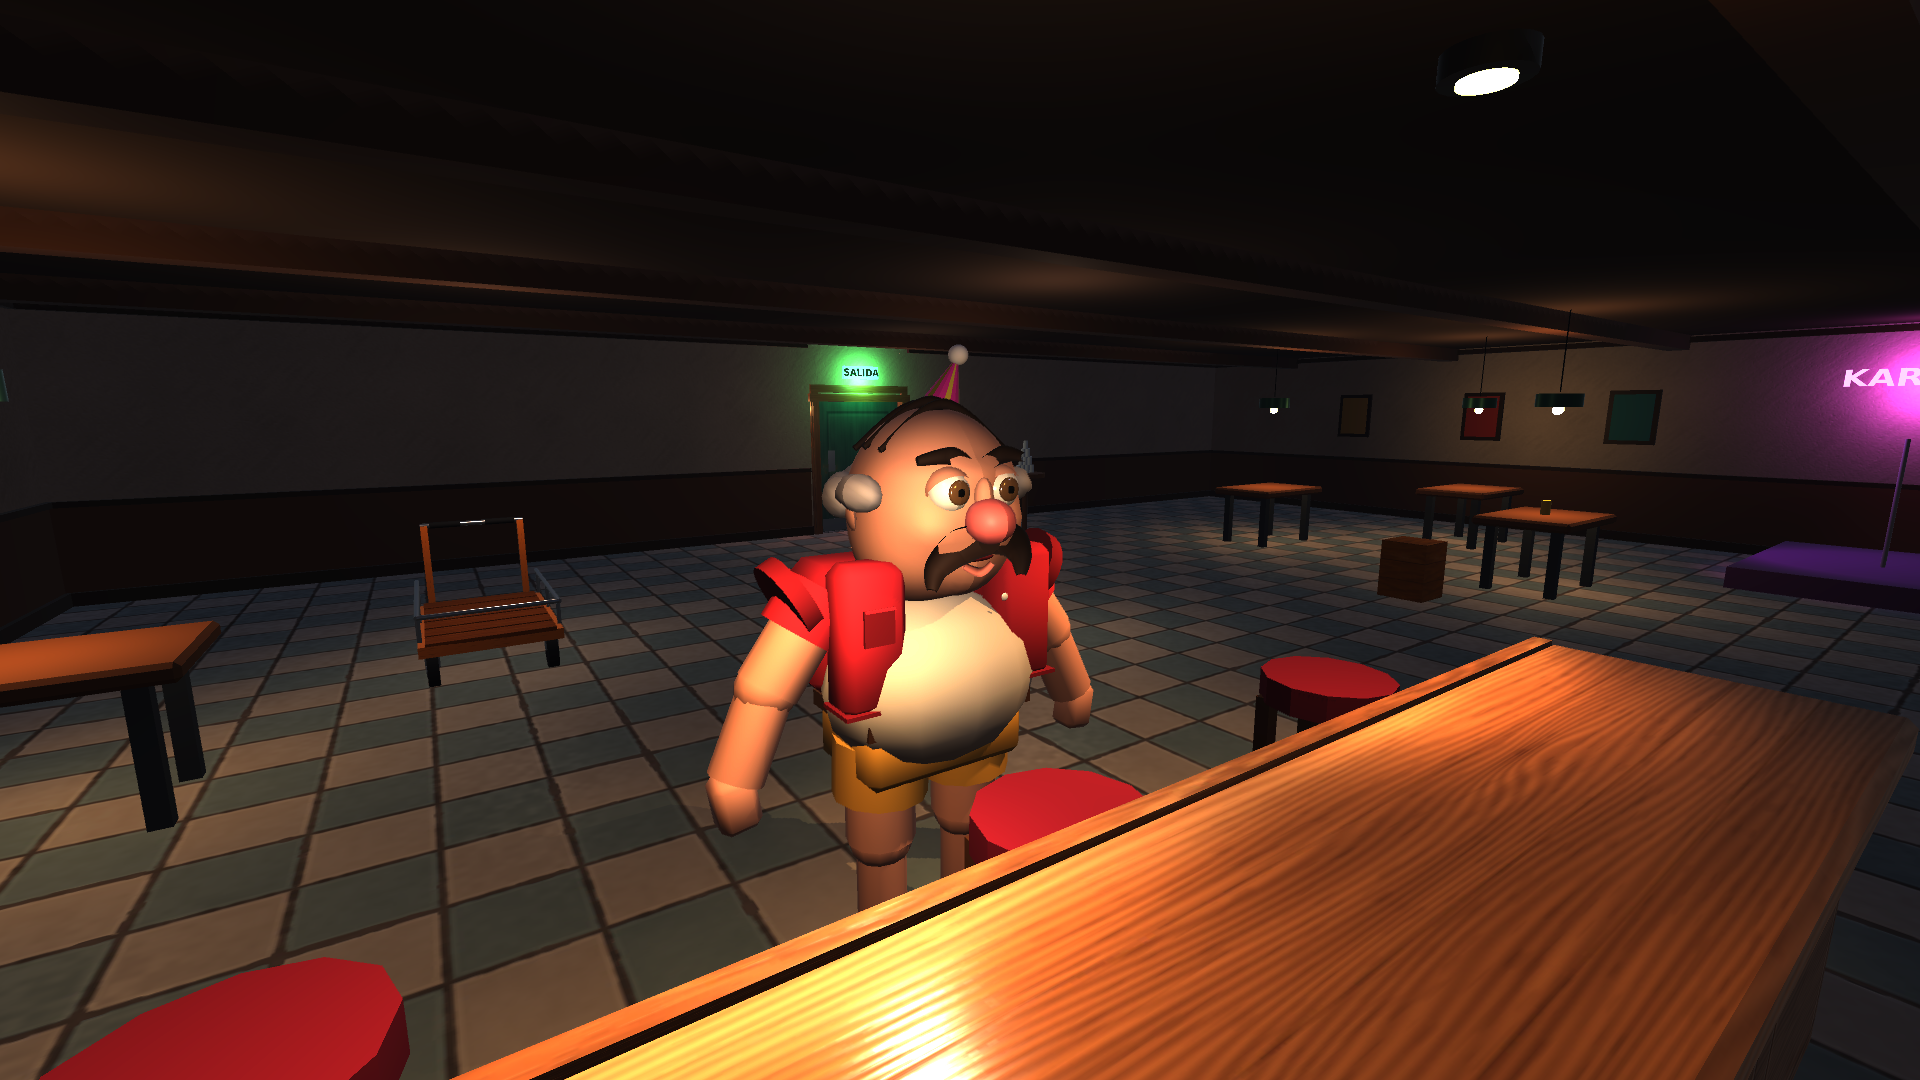
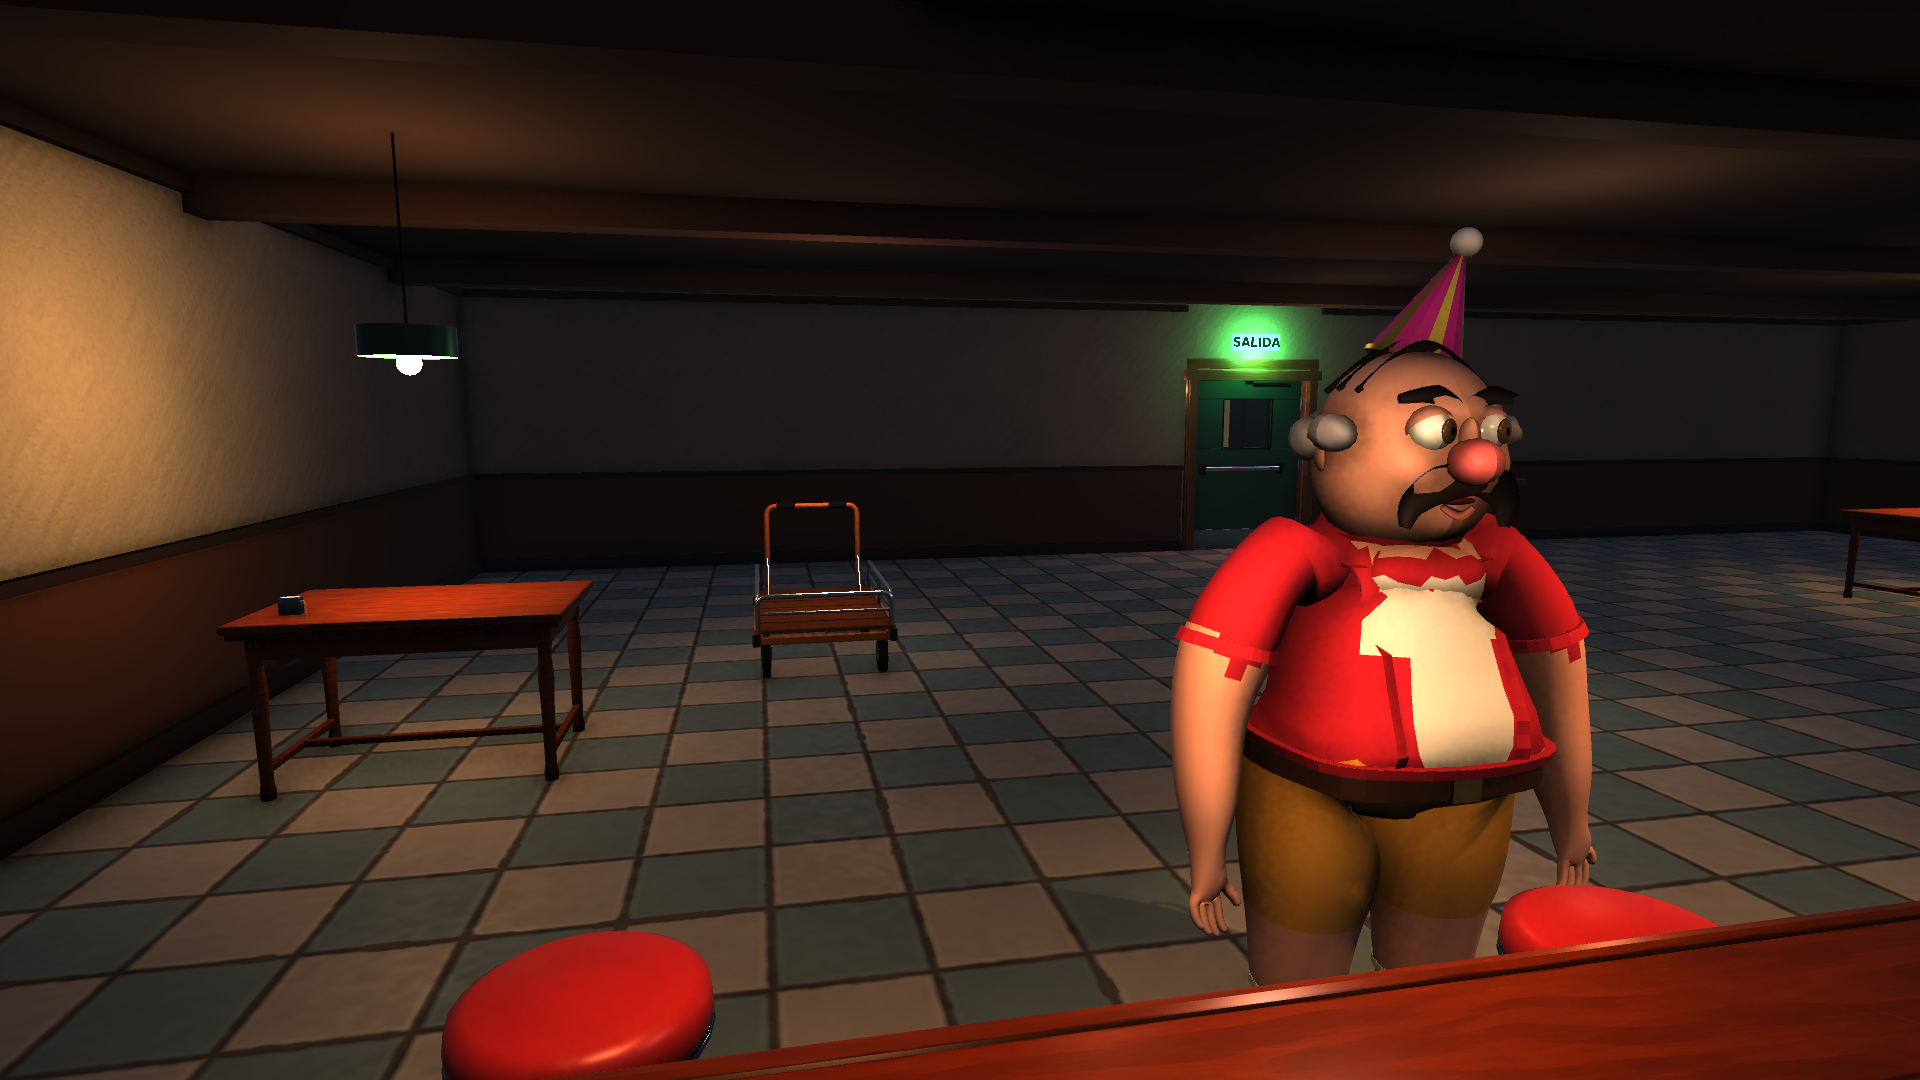
S21 menu backdrop (UE-16): own framing from the S21 bar and no stretching on wide or narrow screens
- New background captured with CamTour view menu_s21 on the integrated cut: the uncle facing the camera from
  behind the counter, on the right third, under the green SALIDA sign, with the cart between him and the buttons.
- The background keeps the image aspect (AspectRatioFitter EnvelopeParent): 21:9 and 4:3 crop instead of
  squashing the uncle; the subject stays inside the 12.5 % crop margins.
- Shade is a horizontal gradient (alpha 0.7 behind title and buttons to 0.15 over the uncle) instead of a flat 0.4.
- CamTour accepts -ueCamViews "name:pos:look[:fov];..." to search framings without rebuilding.
- PlayMode test: background envelope with the sprite aspect, and shade darker on the left.

diff --git a/UnityProject/Assets/Game/Scripts/Debug/CamTour.cs b/UnityProject/Assets/Game/Scripts/Debug/CamTour.cs
@@ -12,24 +12,41 @@ namespace UncleExtraction
     public class CamTour : MonoBehaviour
     {
         string dir;
-        static readonly (string name, Vector3 pos, Vector3 look)[] Views =
+        (string name, Vector3 pos, Vector3 look, float fov)[] custom;
+        static readonly (string name, Vector3 pos, Vector3 look, float fov)[] Views =
         {
-            ("salon",            new Vector3(0.5f, 1.7f, 1.2f),  new Vector3(4.5f, 1.0f, 8.5f)),
-            ("barra",            new Vector3(2.4f, 1.5f, 5.6f),  new Vector3(5.2f, 0.9f, 8.9f)),
-            ("tio",              new Vector3(3.7f, 1.55f, 5.6f), new Vector3(4.5f, 1.0f, 7.4f)),
-            ("karaoke",          new Vector3(-3.5f, 1.7f, 4.0f), new Vector3(-7.4f, 0.6f, 8.8f)),
-            ("carrito",          new Vector3(4.0f, 1.4f, 0.6f),  new Vector3(5.6f, 0.5f, 2.4f)),
-            ("puerta_dentro",    new Vector3(0.6f, 1.6f, 3.4f),  new Vector3(0f, 1.1f, -2f)),
-            ("puerta_fuera",     new Vector3(1.8f, 1.6f, -5.2f), new Vector3(0f, 1.2f, -2f)),
-            ("vereda",           new Vector3(5.5f, 2.6f, -4.0f), new Vector3(0f, 0.8f, -10f)),
-            ("camioneta",        new Vector3(1.6f, 1.6f, -6.4f), new Vector3(0f, 1.0f, -10.5f)),
-            ("camioneta_dentro", new Vector3(0.3f, 1.5f, -8.9f), new Vector3(0f, 0.6f, -12.2f)),
-            ("esquina",          new Vector3(-6.6f, 1.6f, 0.4f), new Vector3(-9f, 0.4f, -2f)),
-            ("techo",            new Vector3(0f, 1.6f, 4.0f),    new Vector3(1f, 4.5f, 9.5f)),
-            ("general",          new Vector3(9f, 7f, -10f),      new Vector3(1f, 0f, 1f)),
-            ("menu_fondo",       new Vector3(0.6f, 1.45f, 4.4f), new Vector3(3.2f, 1.35f, 8.4f)), // fondo del menu (Art/UI/Backgrounds/bar_night.png)
-            ("menu_tio",         new Vector3(5.9f, 1.95f, 9.45f), new Vector3(4.2f, 1.45f, 7.0f)), // sesion 20: el tio de frente desde atras de la barra, el salon detras (fondo del menu)
+            ("salon",            new Vector3(0.5f, 1.7f, 1.2f),  new Vector3(4.5f, 1.0f, 8.5f), 0f),
+            ("barra",            new Vector3(2.4f, 1.5f, 5.6f),  new Vector3(5.2f, 0.9f, 8.9f), 0f),
+            ("tio",              new Vector3(3.7f, 1.55f, 5.6f), new Vector3(4.5f, 1.0f, 7.4f), 0f),
+            ("karaoke",          new Vector3(-3.5f, 1.7f, 4.0f), new Vector3(-7.4f, 0.6f, 8.8f), 0f),
+            ("carrito",          new Vector3(4.0f, 1.4f, 0.6f),  new Vector3(5.6f, 0.5f, 2.4f), 0f),
+            ("puerta_dentro",    new Vector3(0.6f, 1.6f, 3.4f),  new Vector3(0f, 1.1f, -2f), 0f),
+            ("puerta_fuera",     new Vector3(1.8f, 1.6f, -5.2f), new Vector3(0f, 1.2f, -2f), 0f),
+            ("vereda",           new Vector3(5.5f, 2.6f, -4.0f), new Vector3(0f, 0.8f, -10f), 0f),
+            ("camioneta",        new Vector3(1.6f, 1.6f, -6.4f), new Vector3(0f, 1.0f, -10.5f), 0f),
+            ("camioneta_dentro", new Vector3(0.3f, 1.5f, -8.9f), new Vector3(0f, 0.6f, -12.2f), 0f),
+            ("esquina",          new Vector3(-6.6f, 1.6f, 0.4f), new Vector3(-9f, 0.4f, -2f), 0f),
+            ("techo",            new Vector3(0f, 1.6f, 4.0f),    new Vector3(1f, 4.5f, 9.5f), 0f),
+            ("general",          new Vector3(9f, 7f, -10f),      new Vector3(1f, 0f, 1f), 0f),
+            ("menu_fondo",       new Vector3(0.6f, 1.45f, 4.4f), new Vector3(3.2f, 1.35f, 8.4f), 0f), // fondo del menu (Art/UI/Backgrounds/bar_night.png)
+            ("menu_tio",         new Vector3(5.9f, 1.95f, 9.45f), new Vector3(4.2f, 1.45f, 7.0f), 0f), // sesion 20: el tio de frente desde atras de la barra, el salon detras (fondo del menu)
+            ("menu_s21",         new Vector3(6.0f, 1.75f, 9.3f), new Vector3(5.4f, 1.35f, 6.4f), 58f), // sesion 21: tio a la derecha bajo SALIDA, carrito entre el y los botones (Art/UI/Backgrounds/bar_night.png)
         };
+
+        /// -ueCamViews "nombre:px,py,pz:lx,ly,lz[:fov];..." reemplaza el recorrido por esas vistas (para buscar encuadres
+        /// sin recompilar, p. ej. el fondo del menu).
+        static (string, Vector3, Vector3, float)[] ParseViews(string s)
+        {
+            var list = new System.Collections.Generic.List<(string, Vector3, Vector3, float)>();
+            var inv = System.Globalization.CultureInfo.InvariantCulture;
+            Vector3 V(string t) { var p = t.Split(','); return new Vector3(float.Parse(p[0], inv), float.Parse(p[1], inv), float.Parse(p[2], inv)); }
+            foreach (var item in s.Split(';'))
+            {
+                var f = item.Trim().Split(':'); if (f.Length < 3) continue;
+                list.Add((f[0], V(f[1]), V(f[2]), f.Length > 3 ? float.Parse(f[3], inv) : 0f));
+            }
+            return list.ToArray();
+        }
 
         [RuntimeInitializeOnLoadMethod(RuntimeInitializeLoadType.AfterSceneLoad)]
         static void Init()
@@ -39,7 +56,8 @@ namespace UncleExtraction
                 if (a[i] == "-ueCamTour")
                 {
                     var go = new GameObject("CamTour"); DontDestroyOnLoad(go);
-                    go.AddComponent<CamTour>().dir = Path.GetFullPath(a[i + 1]);
+                    var tour = go.AddComponent<CamTour>(); tour.dir = Path.GetFullPath(a[i + 1]);
+                    for (int j = 0; j < a.Length - 1; j++) if (a[j] == "-ueCamViews") tour.custom = ParseViews(a[j + 1]);
                     if (FindAnyObjectByType<FrontendMenu>()) UnityEngine.SceneManagement.SceneManager.LoadScene(FrontendMenu.GameScene);
                     return;
                 }
@@ -59,8 +77,9 @@ namespace UncleExtraction
             foreach (var pm in FindObjectsByType<PlayerMotor>(FindObjectsSortMode.None)) foreach (var r in pm.GetComponentsInChildren<Renderer>()) r.enabled = false;
             foreach (var c in FindObjectsByType<Canvas>(FindObjectsSortMode.None)) c.enabled = false;
             var hud = FindAnyObjectByType<LabDebugHud>(); if (hud) hud.enabled = false;
-            foreach (var v in Views)
+            foreach (var v in custom ?? Views)
             {
+                cam.fieldOfView = v.fov > 0f ? v.fov : 70f;
                 camGo.transform.position = v.pos; camGo.transform.rotation = Quaternion.LookRotation(v.look - v.pos);
                 for (int f = 0; f < 6; f++) yield return null;
                 yield return new WaitForEndOfFrame();

diff --git a/UnityProject/Assets/Game/Scripts/UI/FrontendMenu.cs b/UnityProject/Assets/Game/Scripts/UI/FrontendMenu.cs
@@ -51,7 +51,12 @@ namespace UncleExtraction
             var skin = UiSkin.Load();
             var bg = Ui.Image(canvas.transform, "Background", skin ? skin.background : null, skin && skin.background ? Color.white : Ui.Ink, false);
             bg.preserveAspect = false;
-            var shade = Ui.Image(canvas.transform, "Shade", null, new Color(0.06f, 0.09f, 0.11f, 0.4f), false); // el fondo nocturno ya es oscuro
+            if (bg.sprite)
+            {   // recortar en lugar de estirar: en 21:9, 16:10 o 4:3 el fondo cubre la pantalla sin deformar al tio (sesion 21)
+                var fit = bg.gameObject.AddComponent<AspectRatioFitter>();
+                fit.aspectMode = AspectRatioFitter.AspectMode.EnvelopeParent; fit.aspectRatio = bg.sprite.rect.width / bg.sprite.rect.height;
+            }
+            var shade = Ui.Image(canvas.transform, "Shade", ShadeSprite(), new Color(0.06f, 0.09f, 0.11f, 1f), false); // velo: oscuro detras de los botones, liviano sobre el tio
             var title = Ui.Label(canvas.transform, "Title", "UNCLE EXTRACTION", 112, Ui.Text, TextAnchor.UpperLeft, true);
             title.fontSize = title.resizeTextMaxSize = 112; title.resizeTextMinSize = 72; // logo: no crece con el tamaño de texto
             title.rectTransform.offsetMin = new Vector2(Ui.Margin, 0); title.rectTransform.offsetMax = new Vector2(-Ui.Margin, -Ui.Margin);
@@ -70,6 +75,21 @@ namespace UncleExtraction
             ok.GetComponent<RectTransform>().pivot = new Vector2(0.5f, 0f); ok.gameObject.AddComponent<LocText>().key = "button.back";
             errorBox.gameObject.SetActive(false);
             Show(Page.Main);
+        }
+
+        static Sprite shadeSprite;
+        /// Degradado horizontal del velo (sesion 21): alfa 0,7 a la izquierda (titulo y botones) a 0,15 a la derecha (el tio).
+        static Sprite ShadeSprite()
+        {
+            if (shadeSprite) return shadeSprite;
+            var tex = new Texture2D(64, 1, TextureFormat.RGBA32, false) { wrapMode = TextureWrapMode.Clamp, filterMode = FilterMode.Bilinear };
+            for (int x = 0; x < 64; x++)
+            {
+                float t = Mathf.SmoothStep(0f, 1f, Mathf.InverseLerp(14f, 44f, x));
+                tex.SetPixel(x, 0, new Color(1f, 1f, 1f, Mathf.Lerp(0.7f, 0.15f, t)));
+            }
+            tex.Apply(false, false); // legible: la prueba del menu comprueba el degradado
+            return shadeSprite = Sprite.Create(tex, new Rect(0, 0, 64, 1), new Vector2(0.5f, 0.5f));
         }
 
         void CloseError()

diff --git a/UnityProject/Assets/Game/Tests/PlayMode/UiTests.cs b/UnityProject/Assets/Game/Tests/PlayMode/UiTests.cs
@@ -84,6 +84,26 @@ namespace UncleExtraction.Tests
             menu.Show(FrontendMenu.Page.Main); yield return null;
         }
 
+        /// Fondo del menu (sesion 21): cubre la pantalla recortando (no se deforma en 21:9 ni 4:3) y el velo es mas oscuro
+        /// detras de los botones que sobre el tio.
+        [UnityTest]
+        public IEnumerator Menu_BackgroundCoversWithoutStretching_AndShadeIsDarkerBehindButtons()
+        {
+            SceneManager.LoadScene("Frontend");
+            yield return null; yield return null;
+            var bg = GameObject.Find("Background")?.GetComponent<Image>(); Assert.IsNotNull(bg, "fondo del menu");
+            Assert.IsNotNull(bg.sprite, "fondo con la captura del bar (UiSkin.background)");
+            var fit = bg.GetComponent<AspectRatioFitter>(); Assert.IsNotNull(fit, "el fondo recorta en lugar de estirarse");
+            Assert.AreEqual(AspectRatioFitter.AspectMode.EnvelopeParent, fit.aspectMode);
+            yield return null;
+            var parent = (RectTransform)bg.rectTransform.parent; var r = bg.rectTransform.rect;
+            Assert.AreEqual(bg.sprite.rect.width / bg.sprite.rect.height, r.width / r.height, 0.01f, "misma proporcion que la imagen");
+            Assert.GreaterOrEqual(r.width + 0.5f, parent.rect.width); Assert.GreaterOrEqual(r.height + 0.5f, parent.rect.height);
+            var shade = GameObject.Find("Shade")?.GetComponent<Image>(); Assert.IsNotNull(shade?.sprite, "velo con degradado");
+            var tex = shade.sprite.texture;
+            Assert.Greater(tex.GetPixel(0, 0).a, tex.GetPixel(tex.width - 1, 0).a + 0.3f, "velo oscuro a la izquierda, liviano a la derecha");
+        }
+
         [Test]
         public void Rebind_SwapsConflicts_AndResets()
         {
